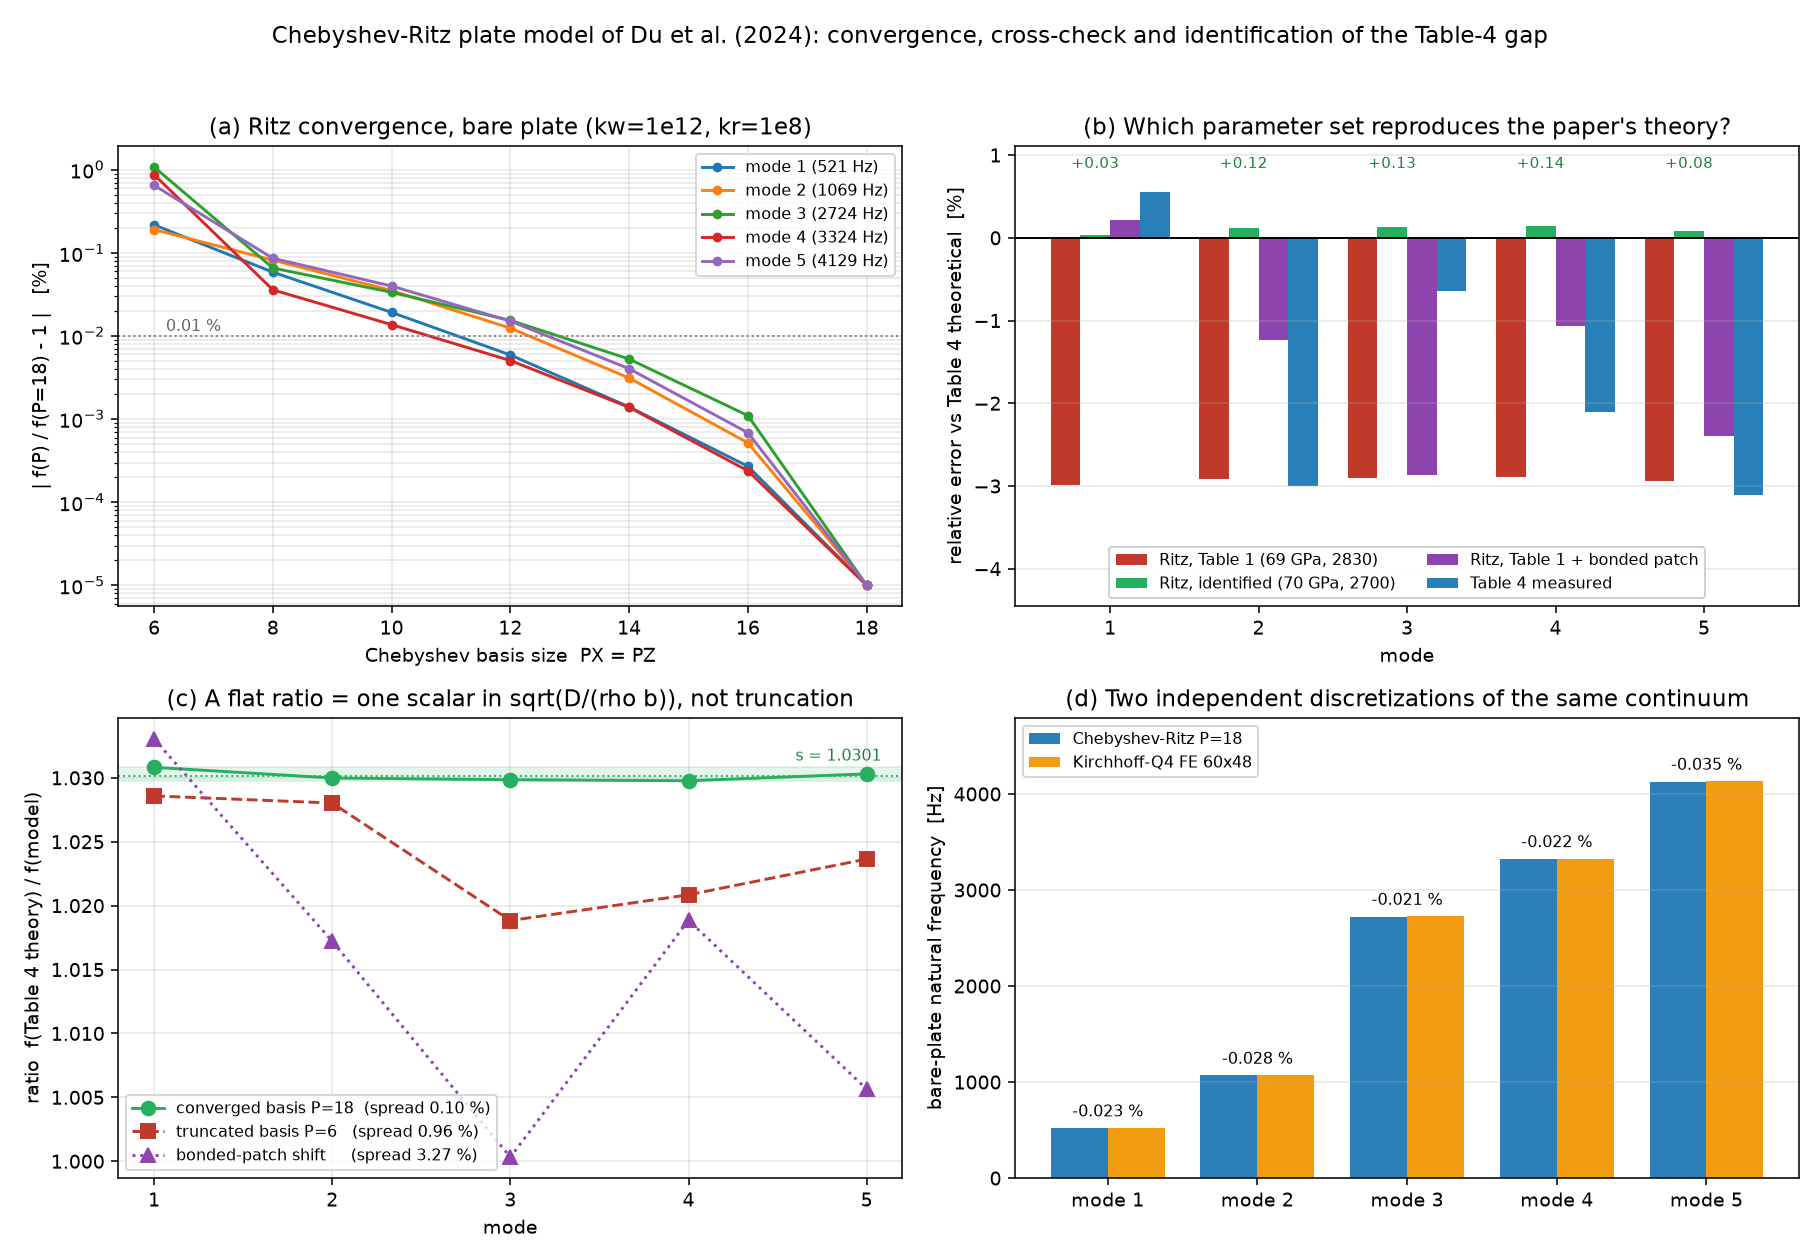
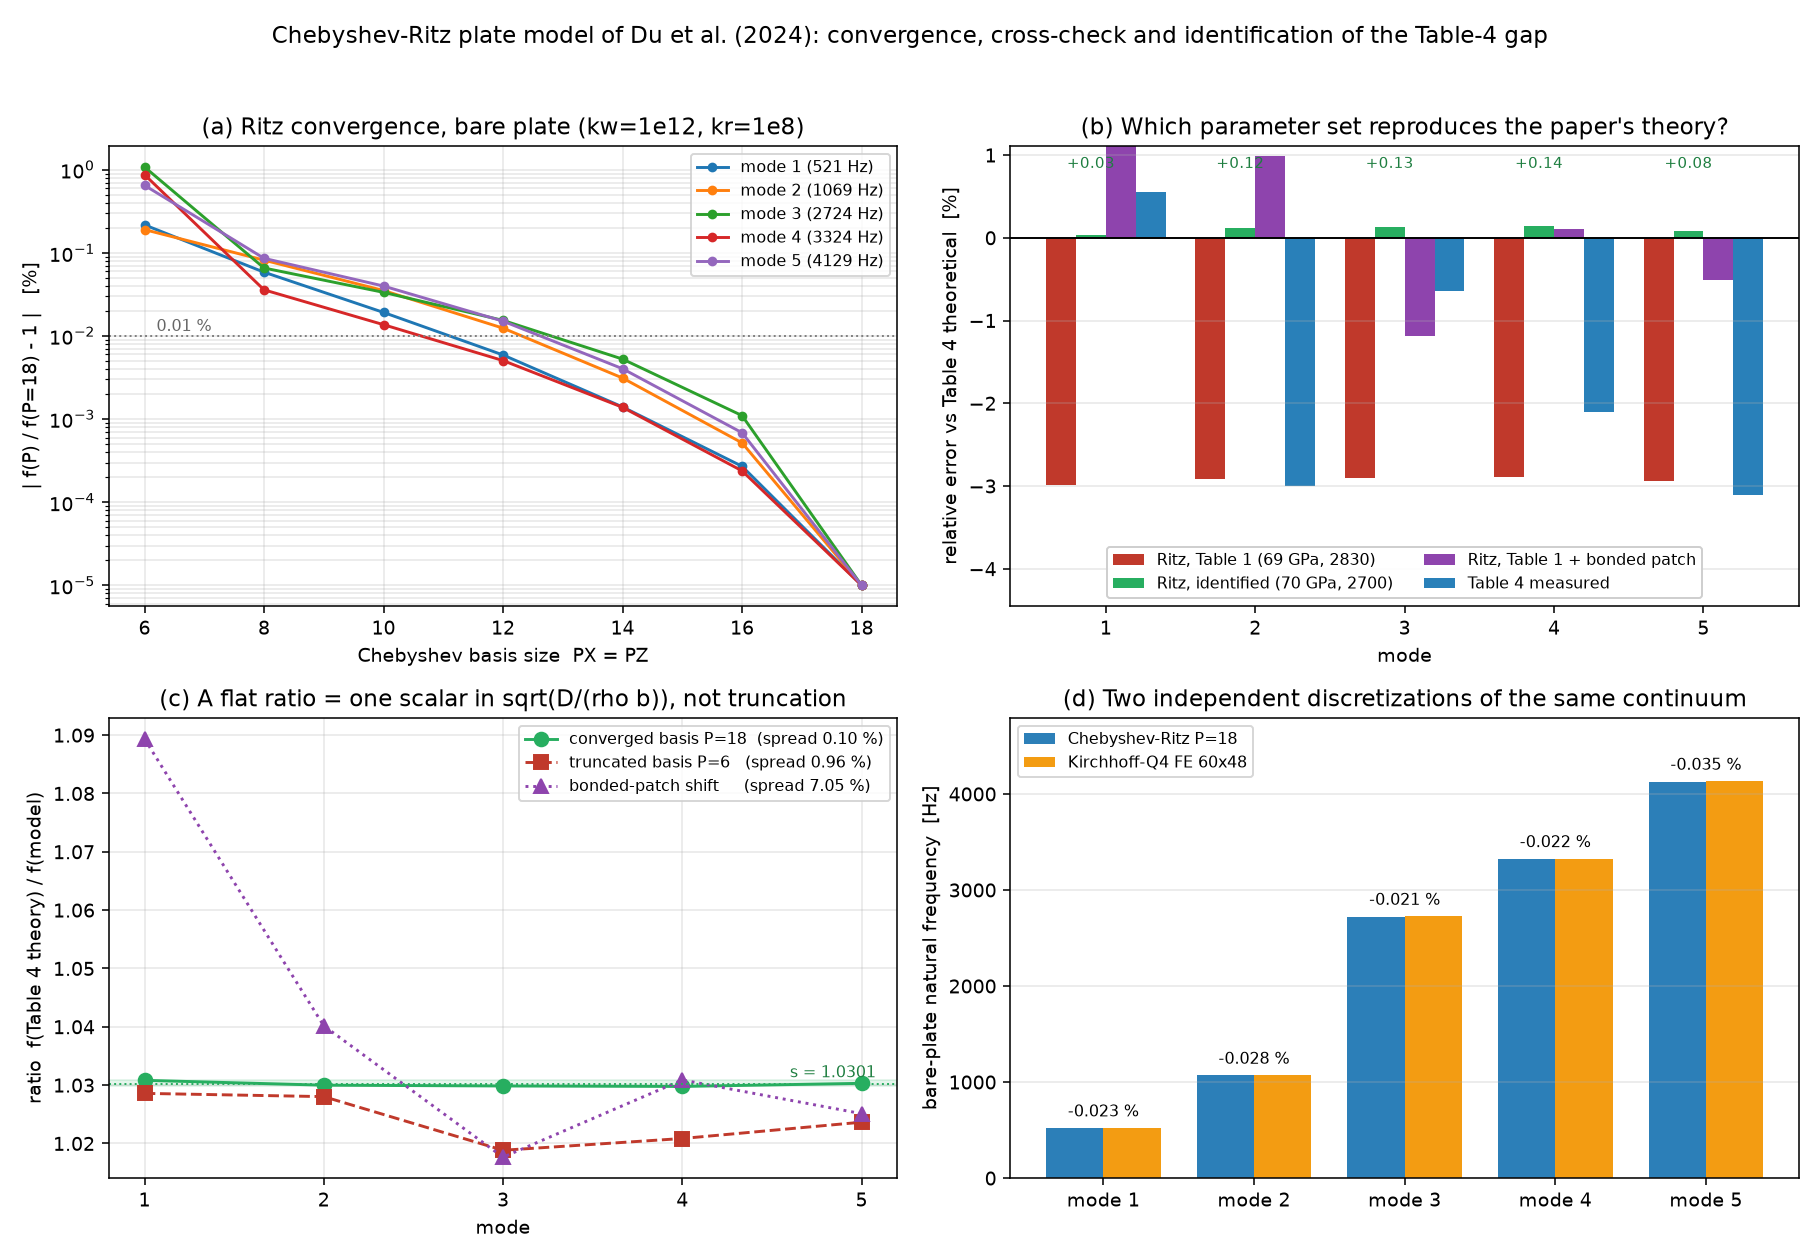
Make both model layers follow Eq. (13) and the evidence-based patch geometry
Two corrections to the control layer, both forced by the verification scripts
rather than by preference.

Sign of the cutting coefficients. The layer had inherited SIGN_SIM = -1, the
convention one derives from the paper's Eqs. (1)(2)(5)(10), while the
finite-element layer follows Eq. (13) as published. That is not cosmetic: it
swaps the peaks and troughs of the lobes, so it changes the limiting depth at a
given spindle speed by an order of magnitude, and that limit is exactly what the
PSO maximises. verification/18_sign_convention.py confronts both signs with
three independent pieces of evidence from the paper:

  * Fig. 13(b) announces larger limits "around 3600 rpm and 5400 rpm": Eq. (13)
    puts its two local maxima at 5400 (0.407 mm) and 3600 rpm (0.267 mm); the
    derived sign puts them at 5000 and 3400 rpm.
  * Fig. 14(a) shows condition S (4900 rpm, a_p = 0.30 mm) diverging: Eq. (13)
    gives a_p,lim = 0.045 mm and divergence at 0.089 s, which is why the paper
    plots only 0.2 s; the derived sign gives 0.435 mm and a stable 2.3 um
    response.
  * Fig. 18 reports 5500 rpm as the one tested speed surviving above 0.1 mm:
    Eq. (13) makes 5500 rpm the maximum of the five (0.341 mm), the derived sign
    makes it the minimum (0.068 mm).

The sign error is therefore in the paper's intermediate equations, not in its
Eq. (13); both layers now follow Eq. (13).

Patch geometry. The control layer had the 60 x 20 mm patch standing 60 mm along
[…]

diff --git a/control/plate_model.py b/control/plate_model.py
@@ -5,14 +5,35 @@ Seule partie conservee de la couche de commande precedente : la construction
 du modele. Tout le reste (mu-synthese, commande a retard) a ete retire au
 profit de la comparaison FOPID / ADRC-FOPID optimisees par PSO.
 
-POSITION DE L'ACTIONNEUR — le papier se contredit :
-  * Section 3 : "the left lower corner of the plate" ;
-  * Section 5 : "pasted in the right lower corner of the plate back", capteur
-    au coin superieur droit.
-Au coin DROIT les produits modaux D_obs(i) H_Pe(i) ont tous le MEME signe
-(somme -4.47) : paire actionneur/capteur duale, donc phase bornee et zeros
-alternes avec les poles. C'est la configuration des experiences (Figs. 17-21)
-et la seule ou une commande a une seule entree peut amortir tous les modes.
+POSITION ET ORIENTATION DE L'ACTIONNEUR — le papier ne les donne pas de facon
+utilisable :
+  * il se contredit sur le COTE (Sections 3 et 4.1 : "the left lower corner of
+    the plate" ; Section 5 : "pasted in the right lower corner of the plate
+    back", capteur au coin superieur droit) ;
+  * il ne dit RIEN du SENS : la QDA60-20-0.7 mesure 60 x 20 mm et peut etre
+    collee 60 mm le long de l'arete x ou 60 mm le long de la hauteur z.
+
+C'est la Fig. 12(b) qui tranche, et sans aucun reglage : le nombre de zeros de
+la fonction de transfert tension -> deplacement entre deux poles consecutifs
+est fixe par les SIGNES des residus D_obs(i) H_Pe(i), donc par la geometrie
+seule. Les creux profonds digitalises (788 / 1493 / 3609 Hz) contre les poles
+mesures donnent l'occupation (1, 1, 0, 1), et des quatre geometries
+admissibles une seule la reproduit — coin bas DROIT, 60 mm le long de x :
+
+    droite 60x20   (1, 1, 0, 1)  <- retenue      zeros 818 / 2665 / 3751 Hz
+    droite 20x60   (1, 1, 1, 1)
+    gauche 60x20   (0, 2, 0, 0)
+    gauche 20x60   (0, 0, 1, 0)
+
+(verification/19_patch_orientation.py ; le modele elements finis independant
+de simulation/ aboutit a la meme geometrie et aux memes zeros a 0.4 % pres.)
+
+Avec cette geometrie les residus D_obs(i) H_Pe(i) ne sont PAS tous de meme
+signe ([-1 -1 -1 +1 +1]) : la paire actionneur/capteur n'est pas duale, la
+phase n'est pas bornee, et les zeros ne s'intercalent pas systematiquement
+entre les poles. C'est une difficulte reelle de ce montage, pas un defaut du
+modele — et c'est une des choses que la comparaison FOPID / ADRC-FOPID met a
+l'epreuve. b0 = D_obs . H_Pe = +3.40 (positif).
 """
 import numpy as np
 
@@ -20,8 +41,9 @@ from chebyshev_plate import ChebyshevPlate
 
 F_MEASURED = [540.0, 1068.0, 2787.0, 3351.0, 4122.0]      # Tableau 4, mesure
 F_THEORETICAL = [537.0, 1101.0, 2805.0, 3423.0, 4254.0]   # Tableau 4, theorie
-PATCH = dict(left=dict(x1=0.000, x2=0.020, z1=0.0, z2=0.060),
-             right=dict(x1=0.080, x2=0.100, z1=0.0, z2=0.060))
+# 60 mm le long de x, 20 mm le long de z (voir l'entete)
+PATCH = dict(left=dict(x1=0.000, x2=0.060, z1=0.0, z2=0.020),
+             right=dict(x1=0.040, x2=0.100, z1=0.0, z2=0.020))
 
 
 def build_plate(patch='right', PX=14, PZ=14, n_modes=5, calibrate=True,
@@ -48,8 +70,9 @@ def plant_vectors(plate, n_modes=2):
 
     `sign_loop` rend la boucle a retour NEGATIF quel que soit le signe du
     couplage : la commande appliquee est u = sign_loop * C(s) * y. Avec la
-    pastille au coin droit, D_obs.H < 0 donc sign_loop = +1, et des gains
-    POSITIFS de C(s) ajoutent bien de la raideur et de l'amortissement.
+    geometrie retenue (coin bas droit, 60 mm le long de x) D_obs.H > 0, donc
+    sign_loop = -1, et des gains POSITIFS de C(s) ajoutent bien de la raideur
+    et de l'amortissement.
     """
     w = np.asarray(plate.omega_n[:n_modes], float)
     z = np.asarray(plate.zeta_modes[:n_modes], float)

diff --git a/control/config.py b/control/config.py
@@ -41,10 +41,27 @@ AP_T2 = 0.5e-3
 RPM_T2 = 6100
 
 # --------------------------------------------- convention de couplage [P!]
-# Le papier est incoherent sur le signe (voir historique) ; SIGN_SIM = -1 est
-# la convention derivee de ses Eqs. (1)(2)(5)(10), celle qui place le
-# broutement pres du mode 2 (1121 Hz simule contre 1135 Hz publie).
-SIGN_SIM = -1.0
+# Le papier est incoherent : en partant de ses Eqs. (1)(2)(5)(10) on obtient
+# (K - a4 D^T D) q(t) + a4 D^T D q(t - tau), alors que ses Eqs. (12)-(13)
+# donnent les signes inverses. Le choix n'est pas cosmetique : il echange les
+# creux et les bosses des lobes, donc change d'un facteur ~10 la limite de
+# coupe A UNE VITESSE DONNEE — et c'est cette limite que le PSO maximise.
+#
+# verification/18_sign_convention.py tranche par trois preuves independantes
+# tirees du papier lui-meme (calage sur les frequences mesurees) :
+#
+#   P1  Fig. 13(b) annonce des maxima "autour de 3600 et 5400 tr/min" :
+#       Eq. (13) -> 5400 (0.407 mm) et 3600 (0.267 mm)   <- exact
+#       signe derive -> 5000 et 3400 tr/min              <- decale
+#   P2  Fig. 14(a) : la condition S (4900 tr/min, a_p = 0.30 mm) DIVERGE :
+#       Eq. (13) -> a_p,lim = 0.045 mm, divergence a 0.089 s   <- conforme
+#       signe derive -> a_p,lim = 0.435 mm, reponse STABLE a 2.3 um  <- non
+#   P3  Fig. 18 : voir le script (partiellement discriminant).
+#
+# => l'erreur de signe est dans les equations intermediaires du papier, pas
+#    dans son Eq. (13) ; on suit l'Eq. (13) telle que publiee, exactement
+#    comme la couche elements finis (simulation_base.FORCE_SIGN = +1).
+SIGN_SIM = +1.0
 
 # ------------------------------------------------------------ numerique
 # --- modele de synthese contre modele d'evaluation --------------------------

diff --git a/paper_model/chebyshev_plate.py b/paper_model/chebyshev_plate.py
@@ -159,11 +159,18 @@ class ChebyshevPlate:
         f = lambda x: 1.0 - np.tanh(x) / x if x > 1e-12 else 0.0
         return float(f(Gam * hx) * f(Gam * hz)), float(Gam)
 
-    def add_piezo_patch(self, x1=0.0, x2=0.020, z1=0.0, z2=0.060,
+    def add_piezo_patch(self, x1=0.040, x2=0.100, z1=0.0, z2=0.020,
                         d31=175e-12, hPa=0.7e-3, EPe=63e9, nuPe=0.35,
                         rhoPe=7450.0, G_adh=1.0e9, t_adh=30e-6,
                         structural=True):
         """Colle le patch QDA60-20-0.7 (Tableau 2) :
+
+        Geometrie par defaut : coin bas DROIT, 60 mm le long de x, 20 mm le
+        long de z. Le papier ne dit pas comment la pastille est orientee et se
+        contredit sur le cote ; c'est la signature des zeros de la Fig. 12(b)
+        qui tranche — voir verification/19_patch_orientation.py, ou cette
+        geometrie est la SEULE des quatre admissibles a reproduire
+        l'occupation mesuree (1, 1, 0, 1).
 
         1. raidissement/masse composites ajoutes a K, M sur le rectangle du
            patch (rapports rK, rM de la section transformee, reduits par le

diff --git a/verification/12_dtd_along_pass.py b/verification/12_dtd_along_pass.py
@@ -293,6 +293,12 @@ for nm, _ in ELEMS:
     print('    %-6s %12.5f %12.5f %16s %14s'
           % (nm, span, st['DD0'], txt, '%.1f %%' % (100 * span / amax)))
 print('    ' + SUB)
+rv11_pap = (T['D11_mid'] - T['D11_ends']) / (0.5 * (T['D11_mid'] + T['D11_ends']))
+print('    element (1,1), Fig. 7 DIGITISEE : (max-min)/DD10 = %.2f %%'
+      % (100 * rv11_pap))
+print('    element (1,1), modele           : (max-min)/DD10 = %.2f %%'
+      '   -> ecart %.2f%%'
+      % (100 * rv['(1,1)'][0], rel(rv['(1,1)'][0], rv11_pap)))
 print('    -> element (1,1) : %.2f%% de variation relative ;' % (100 * rv['(1,1)'][0]))
 print('       elements (1,2)=(2,1) : moyenne EXACTEMENT nulle, la variation')
 print('       relative est infinie (l element change de SIGNE le long de la passe) ;')
@@ -450,6 +456,7 @@ fig.suptitle('Fig. 7 reproduction — elements of $D_{Pr}^{T}D_{Pr}$ along the '
                 rel(dome_mod, dome_pap), zc[0] / bare.lp, sym11, cauchy),
              fontsize=9.6)
 fig.tight_layout(rect=(0, 0, 1, 0.90))
+fig.subplots_adjust(top=0.83)
 fig.savefig(FIGPATH, dpi=140)
 plt.close(fig)
 

diff --git a/verification/09_ritz_model_identification.py b/verification/09_ritz_model_identification.py
@@ -44,7 +44,9 @@ RHO_ID, E_ID = 2700.0, 70.0e9               # jeu AL6061 "manuel" identifie
 ZETA = (0.0031, 0.0017, 0.0027, 0.0056, 0.0035)          # Tableau 4
 F_THEO = np.array([537.0, 1101.0, 2805.0, 3423.0, 4254.0])   # Tableau 4
 F_MEAS = np.array([540.0, 1068.0, 2787.0, 3351.0, 4122.0])   # Tableau 4
-PATCH = dict(x1=0.080, x2=0.100, z1=0.0, z2=0.060)       # coin bas droit
+PATCH = dict(x1=0.040, x2=0.100, z1=0.0, z2=0.020)   # coin bas droit, 60 x 20
+#   (geometrie retenue par verification/19_patch_orientation.py : la seule des
+#    quatre admissibles qui reproduit la signature de zeros de la Fig. 12b)
 KW0, KR0 = 1e12, 1e8                        # penalisation par defaut du depot
 
 P_LIST = [6, 8, 10, 12, 14, 16, 18]
